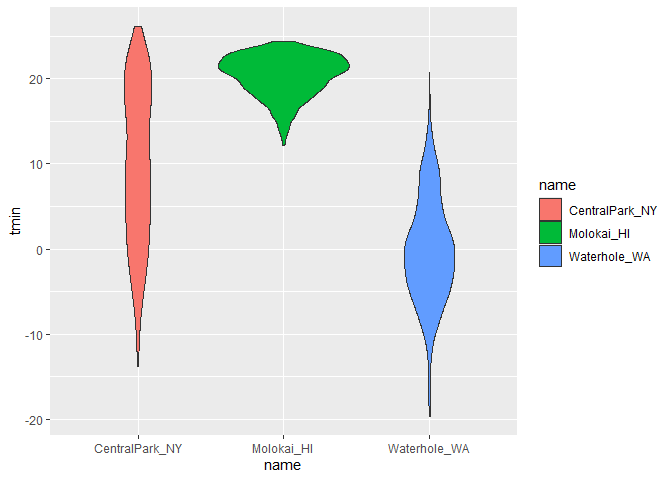
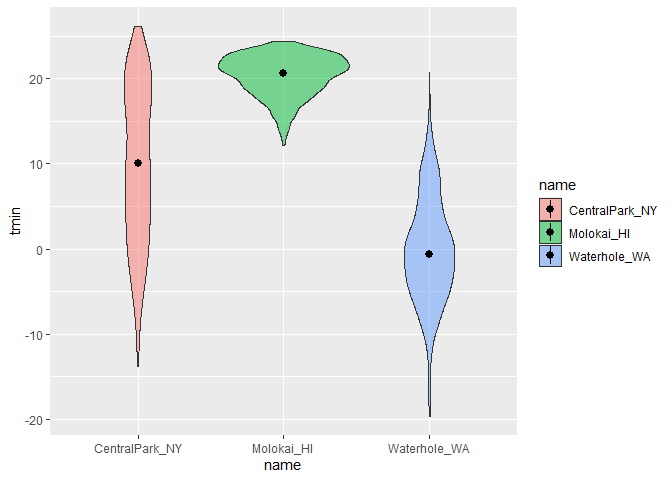
ridges and violin

diff --git a/viz_1.md b/viz_1.md
@@ -497,10 +497,33 @@ Trendy plots
 ``` r
 weather_df %>% 
   ggplot(aes(x = name, y =tmin, fill = name)) + 
-  geom_violin()
+  geom_violin(alpha = 0.5)+
+  stat_summary(fun = "median") #gives us the median , stats summary alone will give mean 
 ```
 
     ## Warning: Removed 17 rows containing non-finite outside the scale range
     ## (`stat_ydensity()`).
 
+    ## Warning: Removed 17 rows containing non-finite outside the scale range
+    ## (`stat_summary()`).
+
+    ## Warning: Removed 3 rows containing missing values or values outside the scale range
+    ## (`geom_segment()`).
+
 ![](viz_1_files/figure-gfm/unnamed-chunk-19-1.png)<!-- -->
+
+Ridge plots – the most popular plot of 2017 useful in specific
+circumstances
+
+``` r
+weather_df %>% 
+  ggplot(aes(x = tmin, y = name)) + 
+  geom_density_ridges()
+```
+
+    ## Picking joint bandwidth of 1.41
+
+    ## Warning: Removed 17 rows containing non-finite outside the scale range
+    ## (`stat_density_ridges()`).
+
+![](viz_1_files/figure-gfm/unnamed-chunk-20-1.png)<!-- -->
